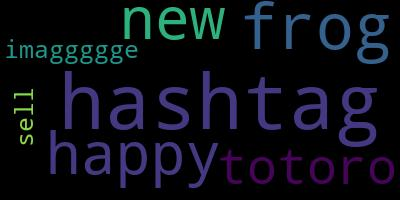
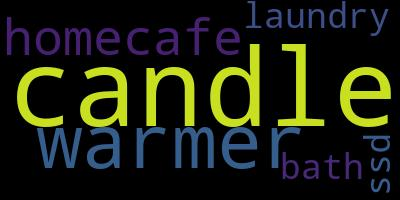
0503 마지막에 같이 오류 몇개 고친 것

diff --git a/carrot_shake/templates/base.html b/carrot_shake/templates/base.html
@@ -25,11 +25,6 @@
     .btn:hover {
       font-weight: bold;
     }
-    body {
-      font-family: 'Noto Serif KR', serif;
-      margin-bottom: 50px;
-      margin-top: 45px;
-    }
 
     .carousel-item img{
       height: 300px;
@@ -75,60 +70,65 @@
       color: #868e96;
     }
 
+    body {
+      font-family: 'Noto Serif KR', serif;
+      margin-bottom: 50px;
+      margin-top: 45px;
+    }
   </style>
 </head>
-<body>
+<body> 
   <nav class="navbar navbar-expand-lg navbar-light">
-  <div class="container-fluid fixed-top bg-light">
-    <button class="navbar-toggler" type="button" data-bs-toggle="collapse" data-bs-target="#navbarNavAltMarkup" aria-controls="navbarNavAltMarkup" aria-expanded="false" aria-label="Toggle navigation">
-    <span class="navbar-toggler-icon"></span>
-    </button>
-    <div class="collapse navbar-collapse" id="navbarNavAltMarkup">
-      <div class="navbar-nav ms-4">
-        {# login 된 사용자의 경우#}
-        {% if request.user.is_authenticated %}
-          <a class="nav-link text-dark" href="{% url 'accounts:profile' user.pk %}">{{ request.user }}</a>
-          <a class="nav-link text-dark" href="{% url 'articles:index' %}"><i class="fas fa-home fa-lg"></i></a>
-          <a class="nav-link text-dark" href="{% url 'articles:create' %}"><i class="far fa-plus-square fa-lg"></i></a>
-          {% comment %} <a class="nav-link text-dark" href="{% url 'accounts:update' %}">User:Update</a> {% endcomment %}
-          <form action="{% url 'accounts:logout' %}" method="POST">
-            {% csrf_token %}
-            <button class="btn btn-link text-decoration-none text-dark"><i class="fas fa-user-minus fa-lg"></i></button>
-          </form>
-        {# 익명 유저 #}
-        {% else %}
-          <a class="navbar-brand" href="{% url 'articles:index' %}"><i class="fas fa-question fa-lg"></i></a>
-          <a class="nav-link text-dark" href="{% url 'accounts:login' %}"><i class="far fa-user-circle fa-lg"></i></a>
-          <a class="nav-link text-dark" href="{% url 'accounts:signup' %}"><i class="fas fa-user-plus fa-lg"></i></a>
-        {% endif %}
+    <div class="container-fluid fixed-top bg-light">
+      <button class="navbar-toggler" type="button" data-bs-toggle="collapse" data-bs-target="#navbarNavAltMarkup" aria-controls="navbarNavAltMarkup" aria-expanded="false" aria-label="Toggle navigation">
+      <span class="navbar-toggler-icon"></span>
+      </button>
+      <div class="collapse navbar-collapse" id="navbarNavAltMarkup">
+        <div class="navbar-nav ms-4">
+          {# login 된 사용자의 경우#}
+          {% if request.user.is_authenticated %}
+            <a class="nav-link text-dark" href="{% url 'accounts:profile' user.pk %}">{{ request.user }}</a>
+            <a class="nav-link text-dark" href="{% url 'articles:index' %}"><i class="fas fa-home fa-lg"></i></a>
+            <a class="nav-link text-dark" href="{% url 'articles:create' %}"><i class="far fa-plus-square fa-lg"></i></a>
+            {% comment %} <a class="nav-link text-dark" href="{% url 'accounts:update' %}">User:Update</a> {% endcomment %}
+            <form action="{% url 'accounts:logout' %}" method="POST">
+              {% csrf_token %}
+              <button class="btn btn-link text-decoration-none text-dark">Logout</button>
+            </form>
+          {# 익명 유저 #}
+          {% else %}
+            <a class="navbar-brand" href="{% url 'articles:index' %}">Guest</a>
+            <a class="nav-link text-dark" href="{% url 'accounts:login' %}">Login</a>
+            <a class="nav-link text-dark" href="{% url 'accounts:signup' %}">Signup</a>
+          {% endif %}
+        </div>
       </div>
+    </div>
+  </nav>
+  {# carousel 이미지 #}
+  <div class="container">
+    <div id="carouselExampleControls" class="carousel slide" data-bs-ride="carousel">
+      <div class="carousel-inner">
+        <div class="carousel-item active">
+          <img src="{% static 'images/rabbitpic3.jpg' %}"class="d-block w-100" alt="image">
+        </div>
+        <div class="carousel-item">
+          <img src="{% static 'images/rabbitpic.jpg' %}"class="d-block w-100" alt="rabbit1">
+        </div>
+        <div class="carousel-item">
+          <img src="{% static 'images/rabbitpic2.jpg' %}"class="d-block w-100" alt="rabbit2">
+        </div>
+      </div>
+      <button class="carousel-control-prev" type="button" data-bs-target="#carouselExampleControls" data-bs-slide="prev">
+        <span class="carousel-control-prev-icon" aria-hidden="true"></span>
+        <span class="visually-hidden">Previous</span>
+      </button>
+      <button class="carousel-control-next" type="button" data-bs-target="#carouselExampleControls" data-bs-slide="next">
+        <span class="carousel-control-next-icon" aria-hidden="true"></span>
+        <span class="visually-hidden">Next</span>
+      </button>
     </div>
   </div>
-</nav>
-{# carousel 이미지 #}
-<div class="container">
-  <div id="carouselExampleControls" class="carousel slide" data-bs-ride="carousel">
-    <div class="carousel-inner">
-      <div class="carousel-item active">
-        <img src="{% static 'images/rabbitpic3.jpg' %}"class="d-block w-100" alt="image">
-      </div>
-      <div class="carousel-item">
-        <img src="{% static 'images/rabbitpic.jpg' %}"class="d-block w-100" alt="rabbit1">
-      </div>
-      <div class="carousel-item">
-        <img src="{% static 'images/rabbitpic2.jpg' %}"class="d-block w-100" alt="rabbit2">
-      </div>
-    </div>
-    <button class="carousel-control-prev" type="button" data-bs-target="#carouselExampleControls" data-bs-slide="prev">
-      <span class="carousel-control-prev-icon" aria-hidden="true"></span>
-      <span class="visually-hidden">Previous</span>
-    </button>
-    <button class="carousel-control-next" type="button" data-bs-target="#carouselExampleControls" data-bs-slide="next">
-      <span class="carousel-control-next-icon" aria-hidden="true"></span>
-      <span class="visually-hidden">Next</span>
-    </button>
-</div>
-</div>
   <div class="container">
     {% block content %}{% endblock content %}
   </div>
@@ -154,7 +154,7 @@
       <h3>Link</h3>
       <ul class="w3-ul w3-hoverable">
         <li class="w3-padding-16">
-          <a href="{% url 'articles:popular_tag' %}"><button class="btn btn-outline-danger">CHECK</button></a>
+          <a href="{% url 'articles:popular_tags' %}"><button class="btn btn-outline-danger">CHECK</button></a>
           <span> 유행하는 아이템 확인하기! </span>
             
         </li>
@@ -164,11 +164,9 @@
             <span class="w3-large">Sending</span><br>
             <span>언제든지 문의해주세요 </span>
         </a>
-          
         </li> 
       </ul>
     </div>
-      
     </div>
   </footer>
 </div>

diff --git a/articles/templates/articles/detail.html b/articles/templates/articles/detail.html
@@ -78,7 +78,7 @@
         <li class="my-2 me-4 d-inline-block">
           <div class="fw-bold">{{ comment.user }}</div>
           <div>{{ comment.content }}</div>
-          <div style="font-size: 11px; color: #868e96;">{{ comment.updated_at }}</div>
+          <div style="font-size: 11px; color: #868e96;">{{ comment.created_at }}</div>
         </li>
         <form action="{% url 'articles:comment_delete' article.pk comment.pk %}" class="d-inline">
           {% csrf_token %}

diff --git a/articles/migrations/0001_initial.py b/articles/migrations/0001_initial.py
@@ -1,6 +1,8 @@
-# Generated by Django 3.1.7 on 2021-03-31 10:41
+# Generated by Django 3.1.7 on 2021-05-03 11:48
 
+from django.conf import settings
 from django.db import migrations, models
+import django.db.models.deletion
 
 
 class Migration(migrations.Migration):
@@ -8,6 +10,7 @@ class Migration(migrations.Migration):
     initial = True
 
     dependencies = [
+        migrations.swappable_dependency(settings.AUTH_USER_MODEL),
     ]
 
     operations = [
@@ -20,6 +23,40 @@ class Migration(migrations.Migration):
                 ('image', models.ImageField(blank=True, upload_to='')),
                 ('created_at', models.DateTimeField(auto_now_add=True)),
                 ('updated_at', models.DateTimeField(auto_now=True)),
+                ('price', models.IntegerField()),
             ],
+        ),
+        migrations.CreateModel(
+            name='Hashtag',
+            fields=[
+                ('id', models.AutoField(auto_created=True, primary_key=True, serialize=False, verbose_name='ID')),
+                ('content', models.TextField(unique=True)),
+            ],
+        ),
+        migrations.CreateModel(
+            name='Comment',
+            fields=[
+                ('id', models.AutoField(auto_created=True, primary_key=True, serialize=False, verbose_name='ID')),
+                ('content', models.CharField(max_length=200)),
+                ('created_at', models.DateTimeField(auto_now_add=True)),
+                ('updated_at', models.DateTimeField(auto_now=True)),
+                ('article', models.ForeignKey(on_delete=django.db.models.deletion.CASCADE, to='articles.article')),
+                ('user', models.ForeignKey(on_delete=django.db.models.deletion.CASCADE, to=settings.AUTH_USER_MODEL)),
+            ],
+        ),
+        migrations.AddField(
+            model_name='article',
+            name='hashtags',
+            field=models.ManyToManyField(to='articles.Hashtag'),
+        ),
+        migrations.AddField(
+            model_name='article',
+            name='like_users',
+            field=models.ManyToManyField(related_name='like_articles', to=settings.AUTH_USER_MODEL),
+        ),
+        migrations.AddField(
+            model_name='article',
+            name='user',
+            field=models.ForeignKey(on_delete=django.db.models.deletion.CASCADE, to=settings.AUTH_USER_MODEL),
         ),
     ]

diff --git a/articles/migrations/0002_remove_comment_updated_at.py b/articles/migrations/0002_remove_comment_updated_at.py
@@ -1,4 +1,4 @@
-# Generated by Django 3.1.7 on 2021-04-30 08:17
+# Generated by Django 3.1.7 on 2021-05-03 11:52
 
 from django.db import migrations
 
@@ -6,12 +6,12 @@ from django.db import migrations
 class Migration(migrations.Migration):
 
     dependencies = [
-        ('articles', '0008_auto_20210429_2147'),
+        ('articles', '0001_initial'),
     ]
 
     operations = [
         migrations.RemoveField(
-            model_name='hashtag',
-            name='article_cnt',
+            model_name='comment',
+            name='updated_at',
         ),
     ]

diff --git a/articles/urls.py b/articles/urls.py
@@ -12,7 +12,7 @@ urlpatterns = [
     path('<int:article_pk>/comment/<int:comment_pk>/delete', views.comment_delete, name='comment_delete'),
     path('<int:article_pk>/like', views.like, name='like'),
     path('<int:hash_pk>/hashtag/', views.hashtag, name='hashtag'),
-    path('hashtags/', views.popular_tag, name='popular_tag'),
+    # path('hashtags/', views.popular_tag, name='popular_tag'),
     path('make_cloud/', views.make_cloud, name='make_cloud'),
     path('popular_tags/', views.popular_tags, name='popular_tags'),
 ]

diff --git a/articles/models.py b/articles/models.py
@@ -46,4 +46,4 @@ class Comment(models.Model):
     user = models.ForeignKey(settings.AUTH_USER_MODEL, on_delete=models.CASCADE)
     content = models.CharField(max_length=200)
     created_at = models.DateTimeField(auto_now_add=True)
-    updated_at = models.DateTimeField(auto_now=True)
+    # updated_at = models.DateTimeField(auto_now=True)

diff --git a/articles/views.py b/articles/views.py
@@ -149,7 +149,7 @@ def make_cloud(request):
     image.save(str(settings.STATICFILES_DIRS[2]) + '/articles/cloud.jpeg')
     return render(request, 'articles/wordcloud.html')
 
-def popular_tag(request):
+def popular_tags(request):
     # rank 확인용
     hashtags = Hashtag.objects.annotate(
         total_article = Count('article')
